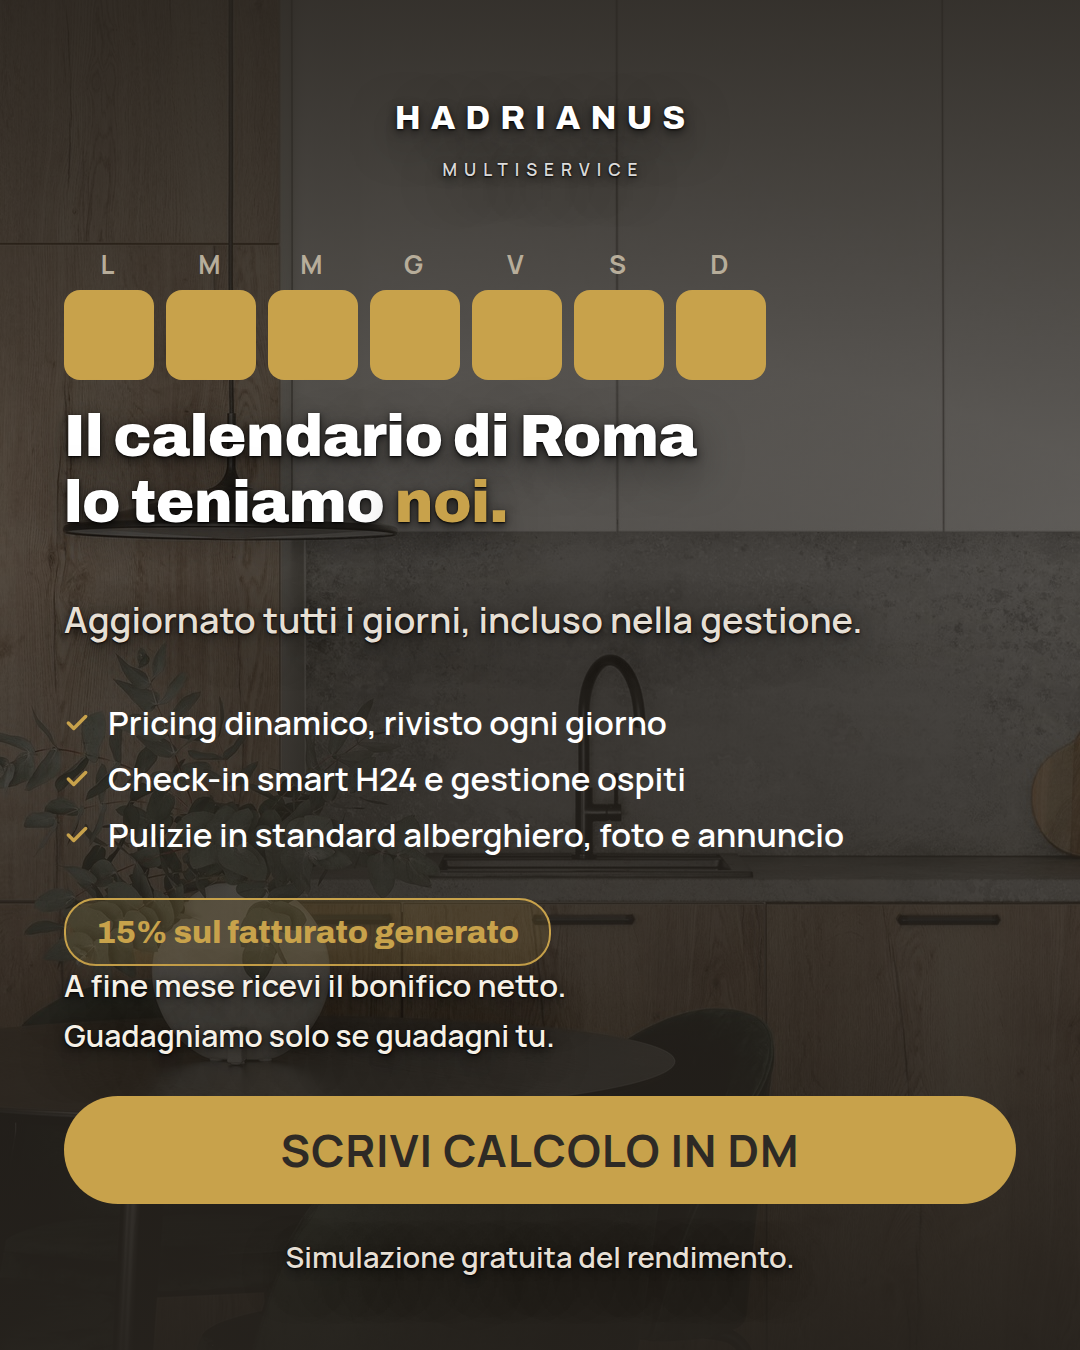
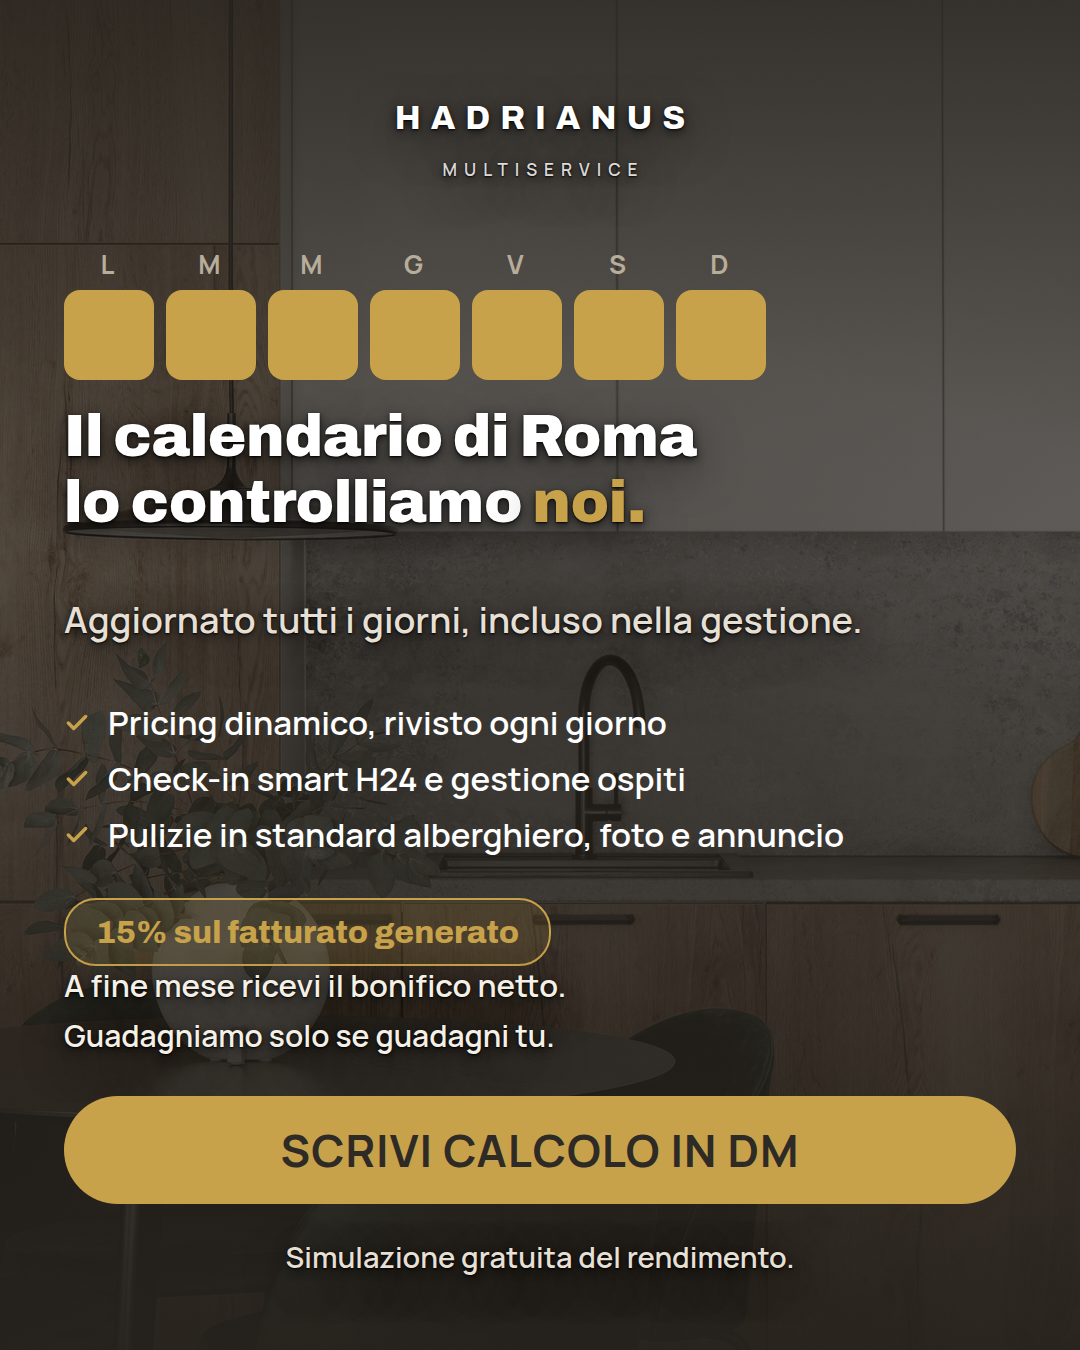
Giornaliero 15/09: riporta nel generatore la modifica fatta sul canvas
Il titolare ha cambiato a mano il titolo di C5: "lo teniamo noi" diventa
"lo controlliamo noi". Senza questa riga il prossimo build.py la
sovrascriveva.

Claude-Session: https://claude.ai/code/session_01DiTAjmkDvMJQQ8X5h72M34

Changed region(s): [[0.1222, 0.3422, 0.6111, 0.4044]]

diff --git a/campagne/giornaliero/2026-09-15/grafiche/C5.dc.html b/campagne/giornaliero/2026-09-15/grafiche/C5.dc.html
@@ -20,7 +20,7 @@
   <div style="position: absolute; left: 0; right: 0; top: 158px; text-align: center; font-family: 'Manrope', 'Helvetica Neue', Arial, sans-serif; font-weight: 600; font-size: 17px; letter-spacing: 7px; color: rgba(255,255,255,0.86); text-shadow: 0 3px 10px rgba(0,0,0,0.68), 0 12px 44px rgba(0,0,0,0.55), 0 1px 2px rgba(0,0,0,0.85);"><span style="margin-right: -7px; display: inline-block;">MULTISERVICE</span></div>
   <div style="position: absolute; left: 64px; top: 246px; display: flex; gap: 12px;"><div style="width: 90px; text-align: center; font-family: 'Manrope', 'Helvetica Neue', Arial, sans-serif; font-weight: 700; font-size: 26px; letter-spacing: 0.12em; color: #b7ad9a;">L</div><div style="width: 90px; text-align: center; font-family: 'Manrope', 'Helvetica Neue', Arial, sans-serif; font-weight: 700; font-size: 26px; letter-spacing: 0.12em; color: #b7ad9a;">M</div><div style="width: 90px; text-align: center; font-family: 'Manrope', 'Helvetica Neue', Arial, sans-serif; font-weight: 700; font-size: 26px; letter-spacing: 0.12em; color: #b7ad9a;">M</div><div style="width: 90px; text-align: center; font-family: 'Manrope', 'Helvetica Neue', Arial, sans-serif; font-weight: 700; font-size: 26px; letter-spacing: 0.12em; color: #b7ad9a;">G</div><div style="width: 90px; text-align: center; font-family: 'Manrope', 'Helvetica Neue', Arial, sans-serif; font-weight: 700; font-size: 26px; letter-spacing: 0.12em; color: #b7ad9a;">V</div><div style="width: 90px; text-align: center; font-family: 'Manrope', 'Helvetica Neue', Arial, sans-serif; font-weight: 700; font-size: 26px; letter-spacing: 0.12em; color: #b7ad9a;">S</div><div style="width: 90px; text-align: center; font-family: 'Manrope', 'Helvetica Neue', Arial, sans-serif; font-weight: 700; font-size: 26px; letter-spacing: 0.12em; color: #b7ad9a;">D</div></div>
   <div style="position: absolute; left: 64px; top: 290px; display: flex; gap: 12px;"><div style="width: 90px; height: 90px; border-radius: 16px; background: #C8A24B; display: flex; align-items: center; justify-content: center;"></div><div style="width: 90px; height: 90px; border-radius: 16px; background: #C8A24B; display: flex; align-items: center; justify-content: center;"></div><div style="width: 90px; height: 90px; border-radius: 16px; background: #C8A24B; display: flex; align-items: center; justify-content: center;"></div><div style="width: 90px; height: 90px; border-radius: 16px; background: #C8A24B; display: flex; align-items: center; justify-content: center;"></div><div style="width: 90px; height: 90px; border-radius: 16px; background: #C8A24B; display: flex; align-items: center; justify-content: center;"></div><div style="width: 90px; height: 90px; border-radius: 16px; background: #C8A24B; display: flex; align-items: center; justify-content: center;"></div><div style="width: 90px; height: 90px; border-radius: 16px; background: #C8A24B; display: flex; align-items: center; justify-content: center;"></div></div>
-  <div style="position: absolute; left: 64px; right: 64px; top: 470px; transform: translateY(-50%); text-align: left; font-family: 'Archivo', 'Helvetica Neue', Arial, sans-serif; font-weight: 900; font-size: 58px; line-height: 1.13; letter-spacing: -0.4px; color: #FFFFFF; text-shadow: 0 3px 10px rgba(0,0,0,0.68), 0 12px 44px rgba(0,0,0,0.55), 0 1px 2px rgba(0,0,0,0.85);"><div>Il calendario di Roma</div><div>lo teniamo <span style="color:#C8A24B">noi.</span></div></div>
+  <div style="position: absolute; left: 64px; right: 64px; top: 470px; transform: translateY(-50%); text-align: left; font-family: 'Archivo', 'Helvetica Neue', Arial, sans-serif; font-weight: 900; font-size: 58px; line-height: 1.13; letter-spacing: -0.4px; color: #FFFFFF; text-shadow: 0 3px 10px rgba(0,0,0,0.68), 0 12px 44px rgba(0,0,0,0.55), 0 1px 2px rgba(0,0,0,0.85);"><div>Il calendario di Roma</div><div>lo controlliamo <span style="color:#C8A24B">noi.</span></div></div>
   <div style="position: absolute; left: 64px; right: 64px; top: 620px; transform: translateY(-50%); text-align: left; font-family: 'Manrope', 'Helvetica Neue', Arial, sans-serif; font-weight: 600; font-size: 36px; line-height: 1.3; letter-spacing: 0px; color: #E6DFD4; text-shadow: 0 3px 10px rgba(0,0,0,0.68), 0 12px 44px rgba(0,0,0,0.55), 0 1px 2px rgba(0,0,0,0.85);"><div>Aggiornato tutti i giorni, incluso nella gestione.</div></div>
   <div style="position: absolute; left: 64px; top: 700px; display: flex; align-items: center; gap: 18px;"><svg width="26" height="26" viewBox="0 0 24 24" fill="none" stroke="#C8A24B" stroke-width="3.2" stroke-linecap="round" stroke-linejoin="round" style="flex: 0 0 auto;"><path d="M20 6L9 17l-5-5"/></svg><span style="font-family: 'Manrope', 'Helvetica Neue', Arial, sans-serif; font-weight: 600; font-size: 33px; color: #FFFFFF;">Pricing dinamico, rivisto ogni giorno</span></div>
   <div style="position: absolute; left: 64px; top: 756px; display: flex; align-items: center; gap: 18px;"><svg width="26" height="26" viewBox="0 0 24 24" fill="none" stroke="#C8A24B" stroke-width="3.2" stroke-linecap="round" stroke-linejoin="round" style="flex: 0 0 auto;"><path d="M20 6L9 17l-5-5"/></svg><span style="font-family: 'Manrope', 'Helvetica Neue', Arial, sans-serif; font-weight: 600; font-size: 33px; color: #FFFFFF;">Check-in smart H24 e gestione ospiti</span></div>

diff --git a/campagne/giornaliero/2026-09-15/grafiche/build.py b/campagne/giornaliero/2026-09-15/grafiche/build.py
@@ -298,8 +298,9 @@ def carosello():
     c += velo(*VELO_FOTO)
     c += marchio(100, 158)
     c += riga_calendario(290, piene=[0, 1, 2, 3, 4, 5, 6], n=7, cella=90, gap=12)
+    # "lo controlliamo": modifica del titolare fatta a mano sul canvas il 15/09.
     c += blocco(['Il calendario di Roma',
-                 'lo teniamo <span style="color:%s">noi.</span>' % ORO],
+                 'lo controlliamo <span style="color:%s">noi.</span>' % ORO],
                 470, 58, 900, BIANCO, ombra=True)
     c += blocco(['Aggiornato tutti i giorni, incluso nella gestione.'], 620, 36, 600,
                 T_CHIARO, font=MA, lh=1.3, tracking=0, ombra=True)
